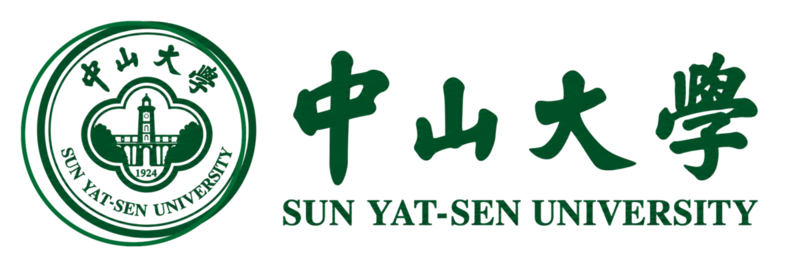
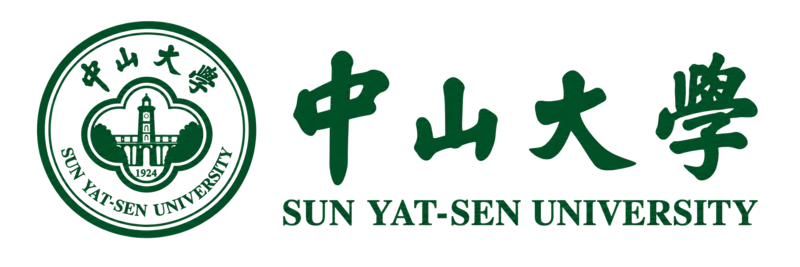
Remove doubled seal outline across research pages

diff --git a/research/optoelectronic-neuromorphic.html b/research/optoelectronic-neuromorphic.html
@@ -29,14 +29,14 @@
 <div class="rd-layout">
 <section class="rd-poster-heading" aria-label="研究主题">
 <a class="rd-poster-logo" href="../index.html#home" aria-label="返回首页">
-<img src="../assets/ambic-brand-home-clean.webp?v=20261010-clean-mark-full-seal-1" alt="AMBIC Laboratory" decoding="async">
+<img src="../assets/ambic-brand-home-clean.webp?v=20261010-clean-mark-full-seal-2" alt="AMBIC Laboratory" decoding="async">
 </a>
 <div class="rd-poster-title">
 <h1>光电融合神经形态材料与器件</h1>
 <p>OPTOELECTRONIC NEUROMORPHIC MATERIALS &amp; DEVICES</p>
 <span>中山大学 · 材料学院</span>
 </div>
-<img class="rd-poster-university" src="../assets/sysu-brand-full-seal.webp?v=20261010-clean-mark-full-seal-1" alt="中山大学" decoding="async">
+<img class="rd-poster-university" src="../assets/sysu-brand-full-seal.webp?v=20261010-clean-mark-full-seal-2" alt="中山大学" decoding="async">
 </section>
 <div class="rd-poster-tools">
 <nav aria-label="研究方向切换">

diff --git a/research/brain-inspired-systems.html b/research/brain-inspired-systems.html
@@ -29,14 +29,14 @@
 <div class="rd-layout">
 <section class="rd-poster-heading" aria-label="研究主题">
 <a class="rd-poster-logo" href="../index.html#home" aria-label="返回首页">
-<img src="../assets/ambic-brand-home-clean.webp?v=20261010-clean-mark-full-seal-1" alt="AMBIC Laboratory" decoding="async">
+<img src="../assets/ambic-brand-home-clean.webp?v=20261010-clean-mark-full-seal-2" alt="AMBIC Laboratory" decoding="async">
 </a>
 <div class="rd-poster-title">
 <h1>类脑芯片设计与智能系统</h1>
 <p>BRAIN-INSPIRED CHIP DESIGN &amp; INTELLIGENT SYSTEMS</p>
 <span>中山大学 · 材料学院</span>
 </div>
-<img class="rd-poster-university" src="../assets/sysu-brand-full-seal.webp?v=20261010-clean-mark-full-seal-1" alt="中山大学" decoding="async">
+<img class="rd-poster-university" src="../assets/sysu-brand-full-seal.webp?v=20261010-clean-mark-full-seal-2" alt="中山大学" decoding="async">
 </section>
 <div class="rd-poster-tools">
 <nav aria-label="研究方向切换">

diff --git a/research/low-dimensional.html b/research/low-dimensional.html
@@ -29,14 +29,14 @@
 <div class="rd-layout">
 <section class="rd-poster-heading" aria-label="研究主题">
 <a class="rd-poster-logo" href="../index.html#home" aria-label="返回首页">
-<img src="../assets/ambic-brand-home-clean.webp?v=20261010-clean-mark-full-seal-1" alt="AMBIC Laboratory" decoding="async">
+<img src="../assets/ambic-brand-home-clean.webp?v=20261010-clean-mark-full-seal-2" alt="AMBIC Laboratory" decoding="async">
 </a>
 <div class="rd-poster-title">
 <h1>低维信息功能材料与器件</h1>
 <p>LOW-DIMENSIONAL INFORMATION MATERIALS &amp; DEVICES</p>
 <span>中山大学 · 材料学院</span>
 </div>
-<img class="rd-poster-university" src="../assets/sysu-brand-full-seal.webp?v=20261010-clean-mark-full-seal-1" alt="中山大学" decoding="async">
+<img class="rd-poster-university" src="../assets/sysu-brand-full-seal.webp?v=20261010-clean-mark-full-seal-2" alt="中山大学" decoding="async">
 </section>
 <div class="rd-poster-tools">
 <nav aria-label="研究方向切换">

diff --git a/research/intelligent-sensing.html b/research/intelligent-sensing.html
@@ -29,14 +29,14 @@
 <div class="rd-layout">
 <section class="rd-poster-heading" aria-label="研究主题">
 <a class="rd-poster-logo" href="../index.html#home" aria-label="返回首页">
-<img src="../assets/ambic-brand-home-clean.webp?v=20261010-clean-mark-full-seal-1" alt="AMBIC Laboratory" decoding="async">
+<img src="../assets/ambic-brand-home-clean.webp?v=20261010-clean-mark-full-seal-2" alt="AMBIC Laboratory" decoding="async">
 </a>
 <div class="rd-poster-title">
 <h1>智能感知材料与传感器件</h1>
 <p>INTELLIGENT SENSING MATERIALS &amp; SENSOR DEVICES</p>
 <span>中山大学 · 材料学院</span>
 </div>
-<img class="rd-poster-university" src="../assets/sysu-brand-full-seal.webp?v=20261010-clean-mark-full-seal-1" alt="中山大学" decoding="async">
+<img class="rd-poster-university" src="../assets/sysu-brand-full-seal.webp?v=20261010-clean-mark-full-seal-2" alt="中山大学" decoding="async">
 </section>
 <div class="rd-poster-tools">
 <nav aria-label="研究方向切换">
